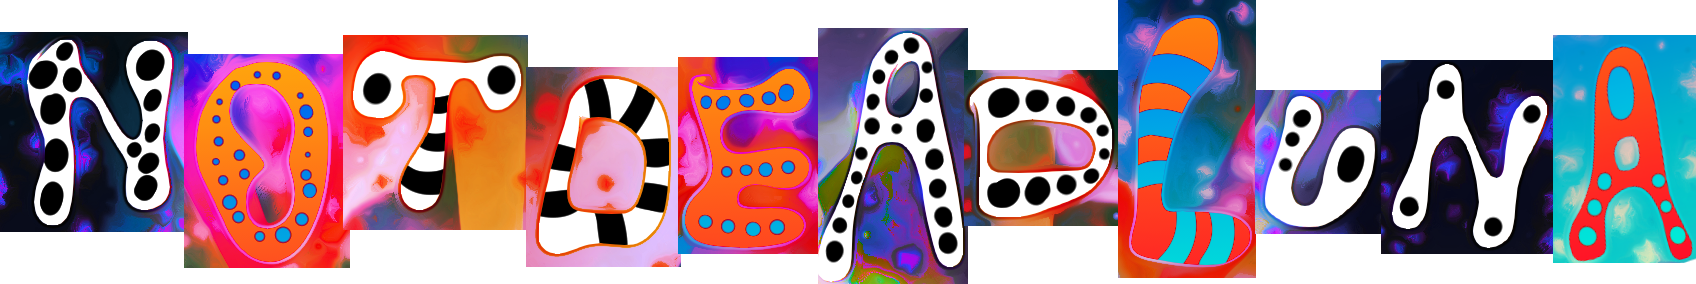
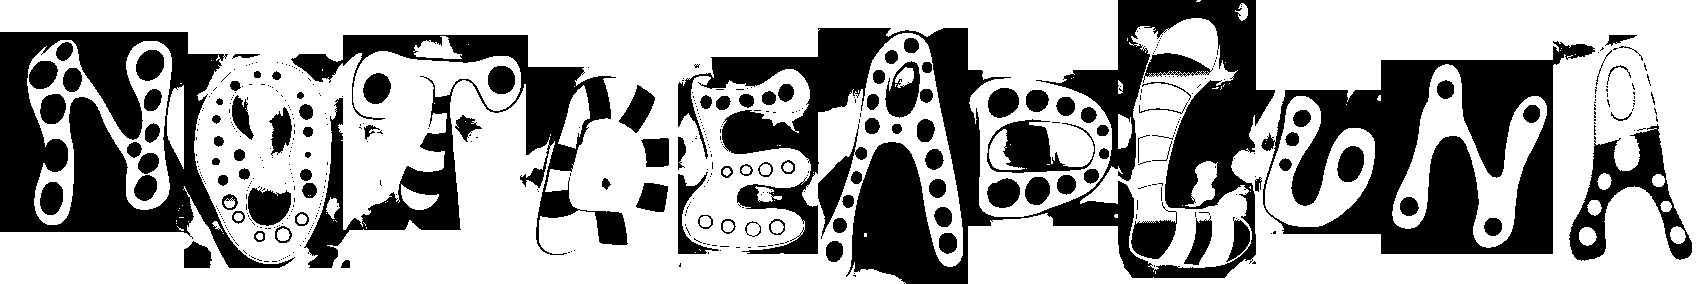
1

diff --git a/index.html b/index.html
@@ -46,7 +46,8 @@
 	<div id="wrapper">
 		<div class="header-top">
 	<div class="brand">Yume Tsushin</div>
-		<div class="address-bar">The Best RPG Game You Can Find</div>
+                <img src="/img/NOTDEADLUNA.png" align="middle" />
+		<div class="address-bar"> </div>
 </div>
 
     <!-- Navigation -->
@@ -105,13 +106,13 @@
                             </ol>
                             <div class="carousel-inner">
                                 <div class="item active">
-                                    <img class="slide-image" src='/img/apaB.png' alt="">
+                                    <img class="slide-image" src='/img/cloud2.png' alt="">
                                 </div>
                                 <div class="item">
-                                    <img class="slide-image" src='/img/cloud.png' alt="">
+                                    <img class="slide-image" src='/img/cloud1.png' alt="">
                                 </div>
 <!--                                <div class="item">-->
-<!--                                    <img class="slide-image" src='/img/noodle.jpg' alt="">-->
+<!--                                    <img class="slide-image" src='/img/cloud3.png' alt="">-->
 <!--                                </div>-->
                             </div>
                             <a class="left carousel-control" href="#myCarousel" data-slide="prev">
